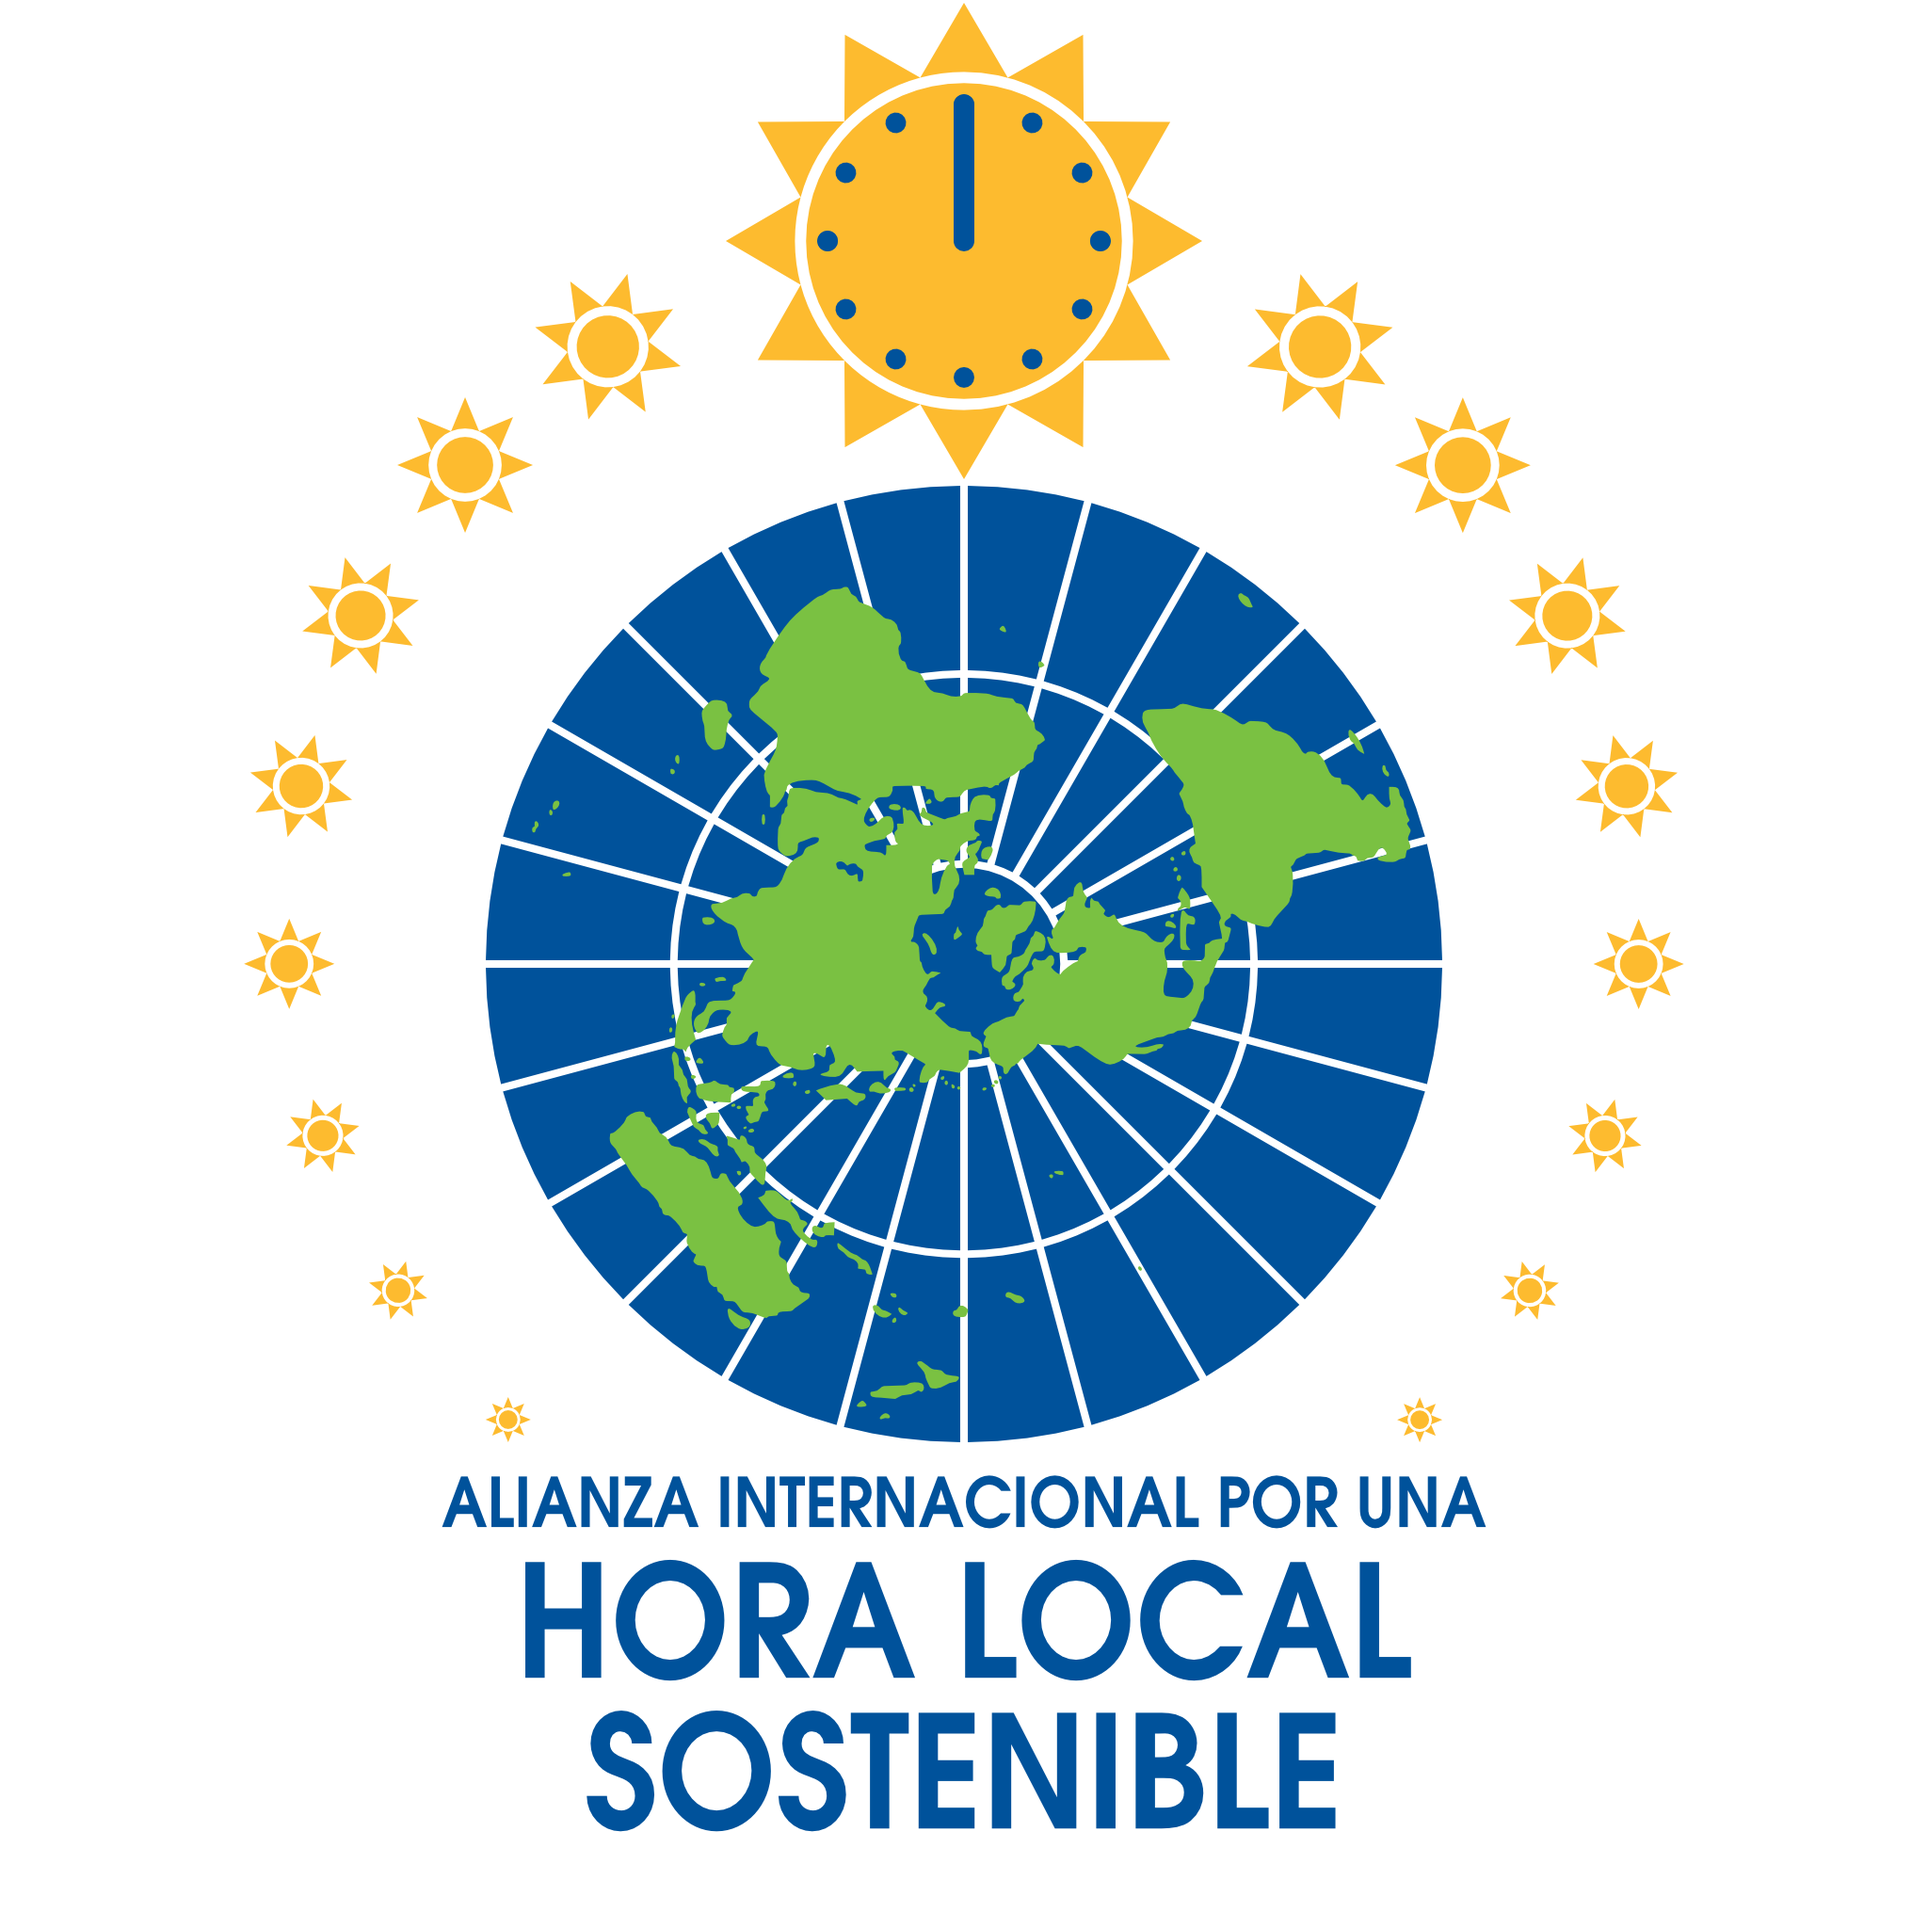
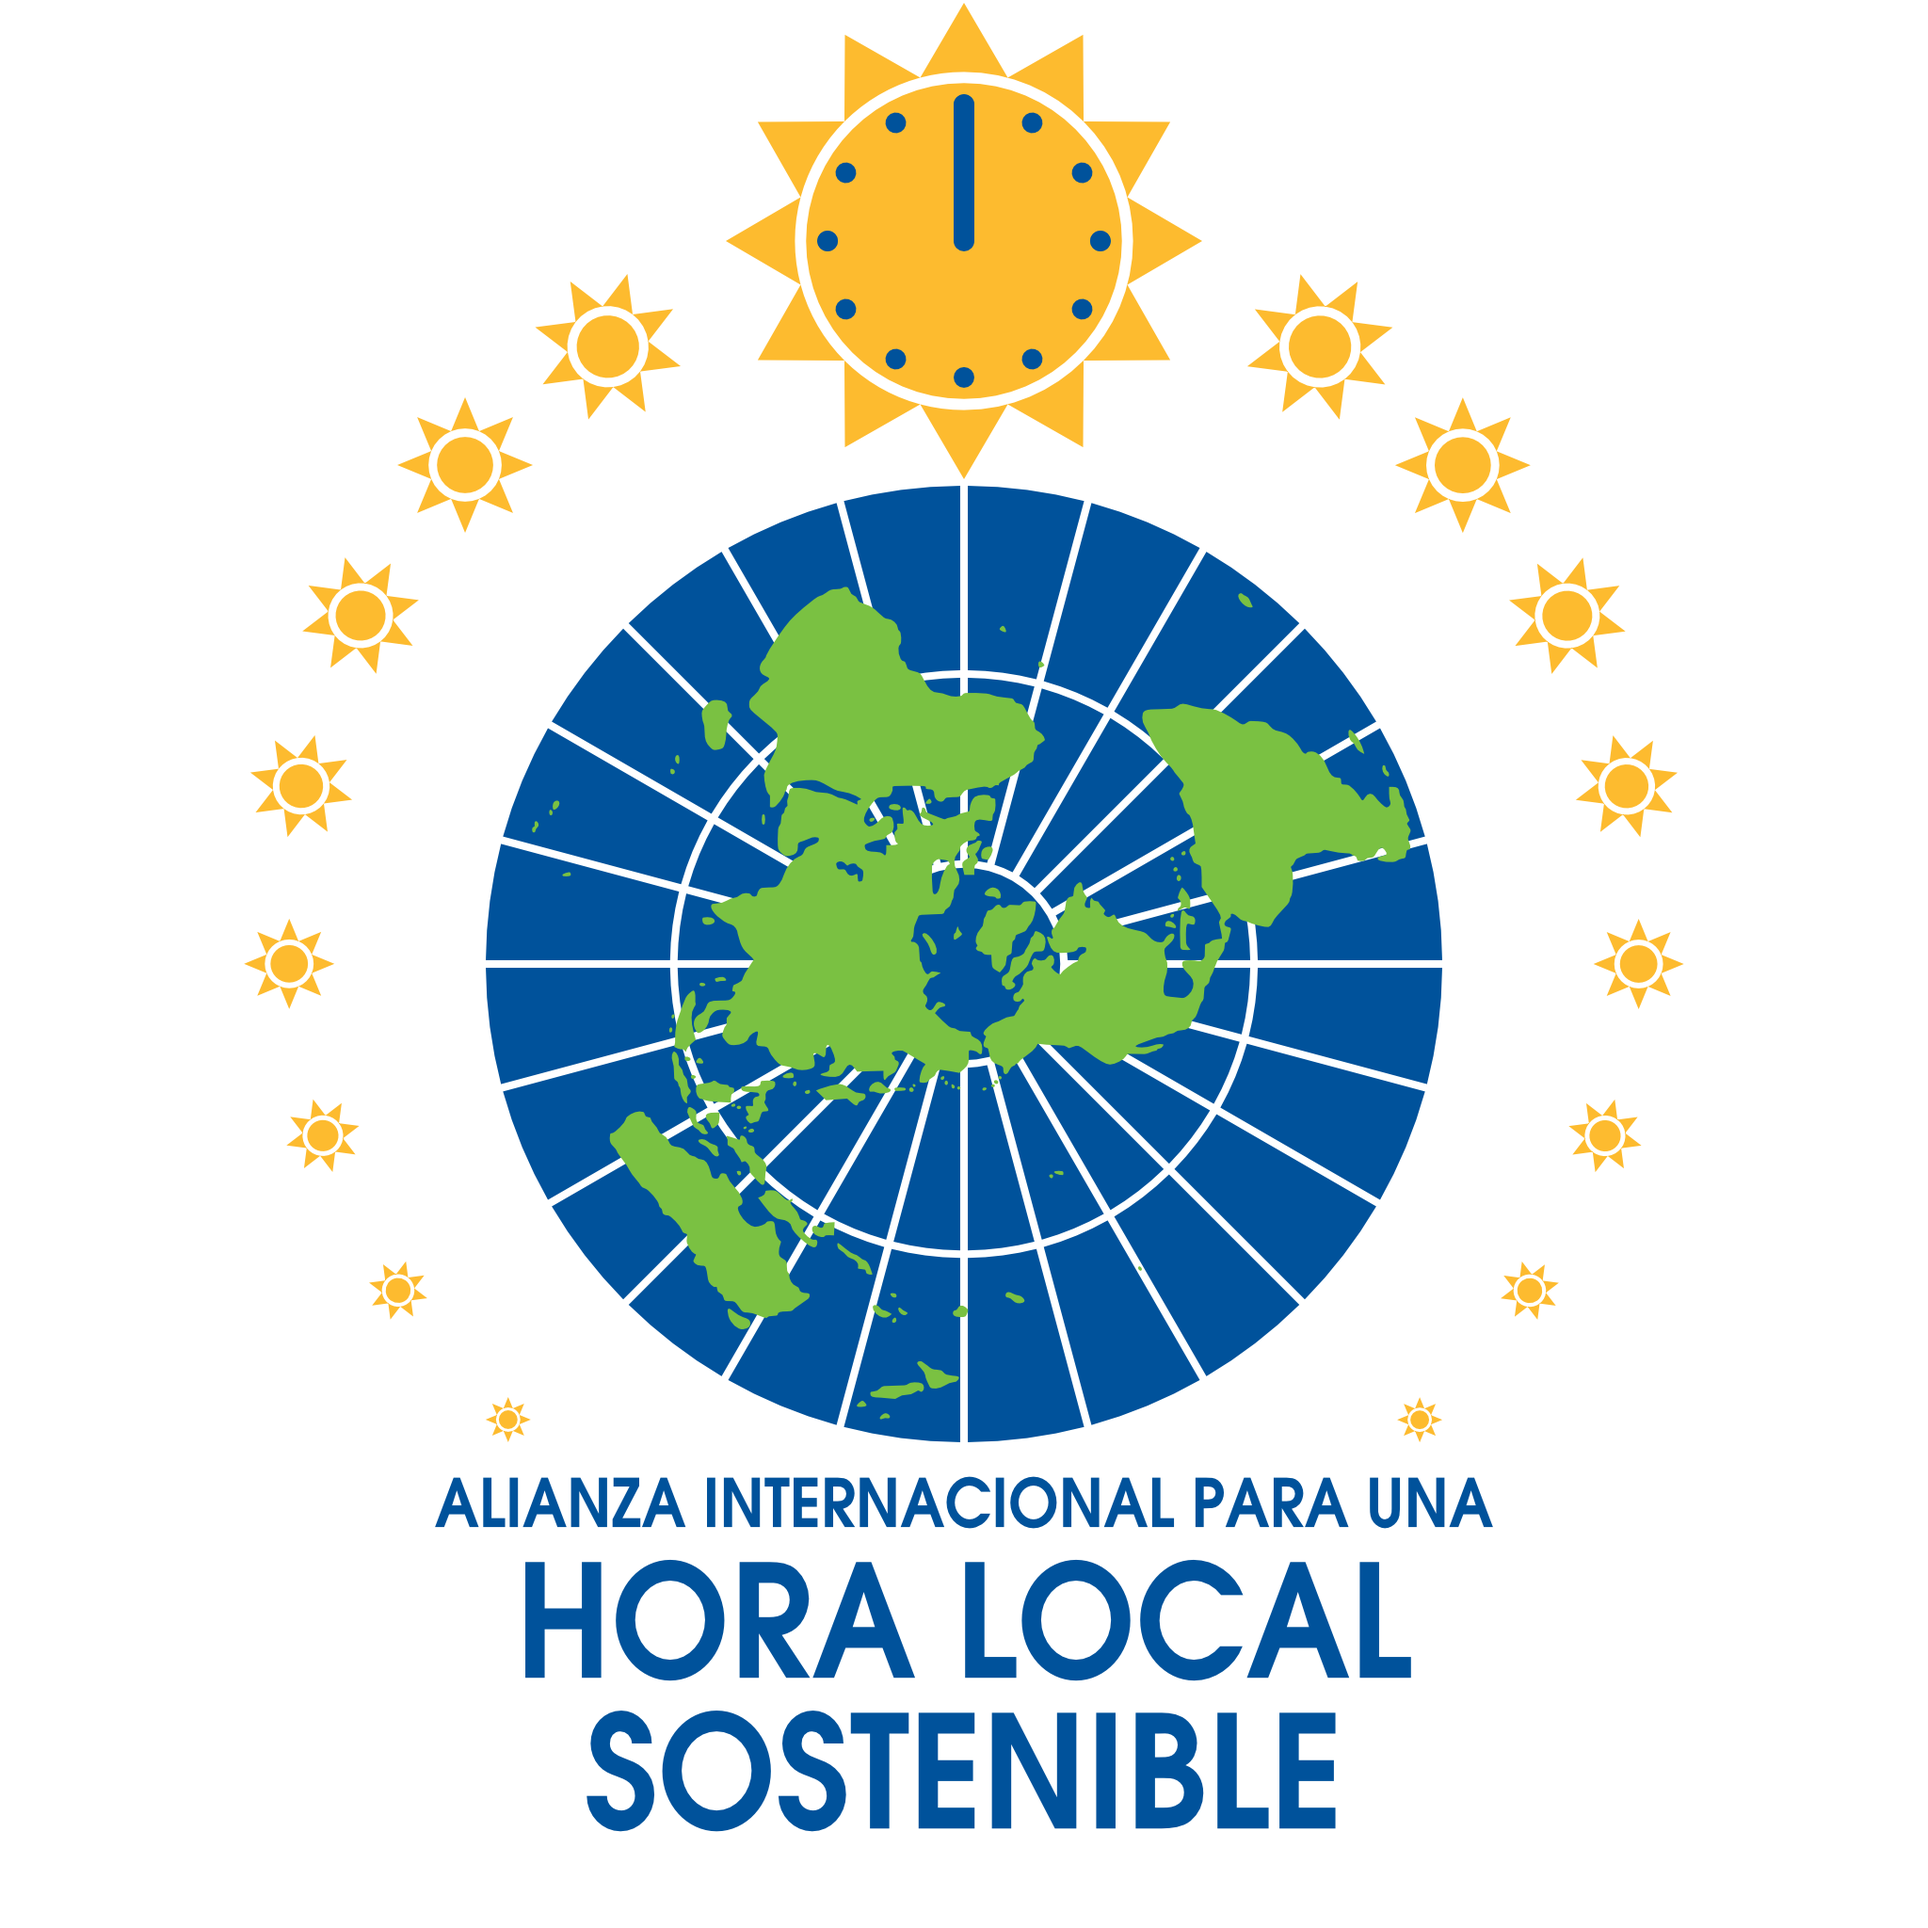
Correct Spanish name.

Changed region(s): [[0.2188, 0.75, 0.7812, 0.8125]]

diff --git a/es/index.html b/es/index.html
@@ -2,7 +2,7 @@
 <html lang="es">
     <head>
         <meta charset="UTF-8">
-        <title>Alianza Internacional por una Hora Local Sostenible</title>
+        <title>Alianza Internacional para una Hora Local Sostenible</title>
 
         <!-- Base appearance. -->
         <meta name="viewport" content="initial-scale=1.0">
@@ -21,14 +21,14 @@
         <meta name="keywords" content="Activismo, Defensa, Australasia, Cambio de reloj, Ditch the Switch, DST, Unión Europea, Global, Bloquear la cerradura, Hora natural, Norteamérica, Horario de verano permanente, Hora estándar permanente, Hora solar, Hora de verano, Cambio de hora, Zona horaria , Hora universal, hora de invierno, hora de verano durante todo el año, hora estándar durante todo el año, hora zulú">
         <link rel="canonical" href="http://iaslt.org/es/">
         <meta name="twitter:card" content="summary">
-        <meta name="twitter:title" content="Alianza Internacional por una Hora Local Sostenible">
+        <meta name="twitter:title" content="Alianza Internacional para una Hora Local Sostenible">
         <!-- <meta name="twitter:description" content="123456789 123456789 123456789 123456789 123456789 123456789 123456789 123456789 123456789 123456789 123456789 123456789.">Twitter limit 120 characters. -->
         <meta name="twitter:description" content="Abogamos por que los relojes se ajusten durante todo el año a la hora local que sea sostenible para cada estado.">
         <meta name="twitter:site" content="@">
         <meta name="twitter:image" content="http://iaslt.org/images/share-site-twitter.jpg?v=1">
         <meta name="twitter:image:alt" content="logo">
         <meta property="og:type" content="website">
-        <meta property="og:title" content="Alianza Internacional por una Hora Local Sostenible">
+        <meta property="og:title" content="Alianza Internacional para una Hora Local Sostenible">
         <!-- <meta property="og:description" content="123456789 123456789 123456789 123456789 123456789 123456789 123456789.">Facebook limit 70 characters. -->
         <meta property="og:description" content="Abogamos por que los relojes se ajusten a la hora local que sea sostenible.">
         <meta property="og:url" content="http://iaslt.org/">
@@ -59,7 +59,7 @@
         <main>
             <div class="width-limit">
 
-                <img alt="Alianza Internacional por una Hora Local Sostenible" class="site-logo" src="../images/iaslt-es.png">
+                <img alt="Alianza Internacional para una Hora Local Sostenible" class="site-logo" src="../images/iaslt-es.png">
 
                 <section class="prose mission">
                     <p>Abogamos por que los relojes se ajusten durante todo el año a la hora local que sea sostenible para cada estado, ya que la historia y la ciencia muestran que esto asegura las mejores condiciones para la salud pública, la seguridad, la educación, el trabajo, la economía, el medio ambiente, las libertades civiles y los derechos humanos.</p>
@@ -204,7 +204,7 @@
                 </section>
 
                 <section class="prose platform">
-                    <h1>Plataforma de la Alianza Internacional por una Hora Local Sostenible</h1>
+                    <h1>Plataforma de la Alianza Internacional para una Hora Local Sostenible</h1>
                     <p>Varias asociaciones de husos horarios naturales permanentes se han unido para concienciar a la ciudadanía sobre la importancia de un correcto uso del tiempo.</p>
                     <p>Un número creciente de estudios científicos muestran que una vida contra el reloj interno nos enferma. Aumenta el riesgo de cáncer, enfermedades metabólicas, problemas cardiovasculares, trastornos del sueño, depresión y reduce la esperanza de vida. Esto es perjudicial a nivel individual y para la sociedad en general, ya que supone una carga para la economía y el sistema sanitario y contamina el medio ambiente.</p>
                     <p>Una de las razones por las que la gente vive contra su reloj interno se debe al cambio de reloj dos veces al año. Otro son los países que eligen zonas horarias geográficamente incorrectas. Esto disocia aún más el tiempo social del tiempo solar, el último de los cuales es el principal regulador de nuestro reloj biológico.</p>
@@ -219,7 +219,7 @@
 
         <footer>
             <div class="width-limit">
-                <h1>Alianza Internacional por una Hora Local Sostenible</h1>
+                <h1>Alianza Internacional para una Hora Local Sostenible</h1>
                 <address>
                     <a class="email" href="mailto:info@iaslt.org" title="Email">info@iaslt.org</a>
                 </address>
